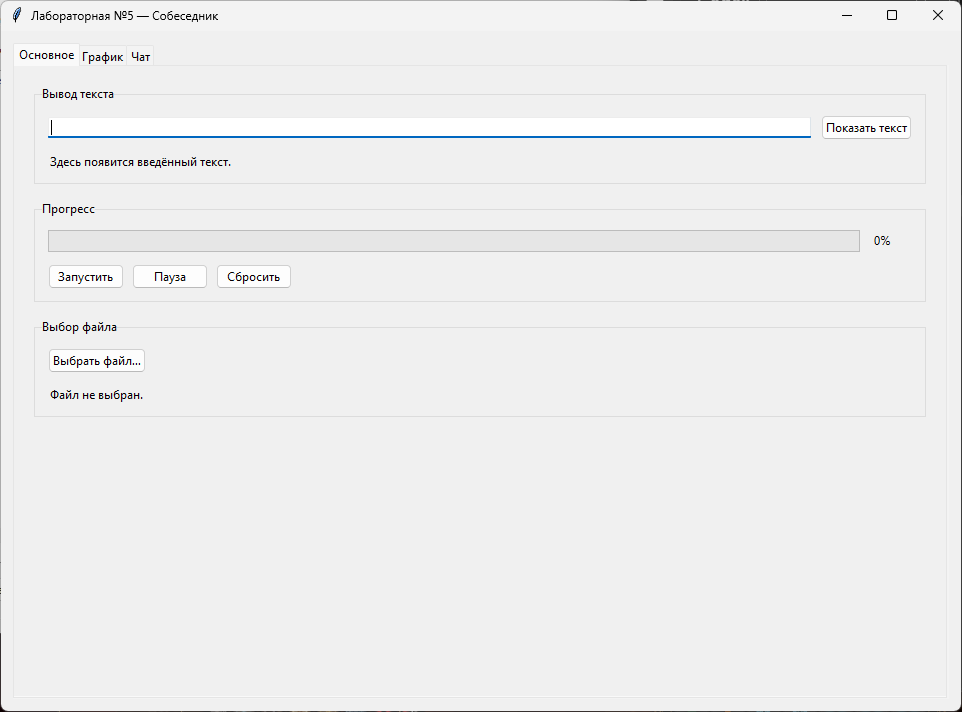
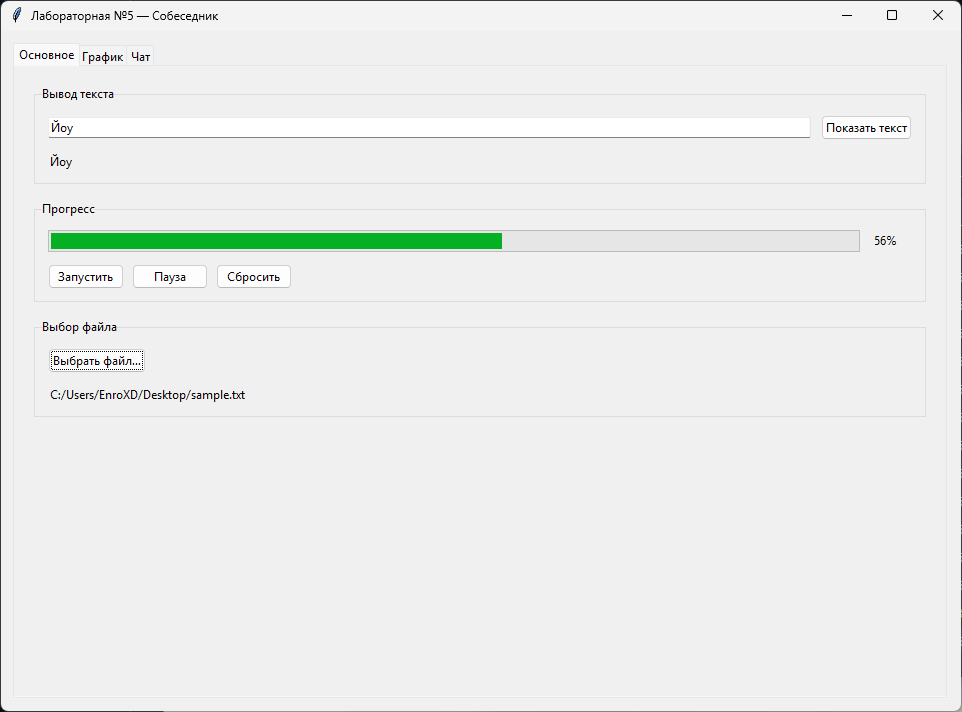
docs: обновить снимок основной вкладки

diff --git a/README.md b/README.md
@@ -106,10 +106,10 @@ python -m venv .venv
 
 ## Снимки приложения
 
-Вкладка «Основное» в начальном состоянии: текст ещё не введён, прогресс равен
-нулю, файл не выбран.
+Вкладка «Основное»: введённый текст выведен под полем, прогресс равен 56%,
+выбран файл `sample.txt` с рабочего стола.
 
-![Основное: начальное состояние](docs/screenshots/widgets.png)
+![Вывод текста, прогрессбар и выбранный файл](docs/screenshots/widgets.png)
 
 График `y = x²`, встроенный в окно Tkinter.
 
